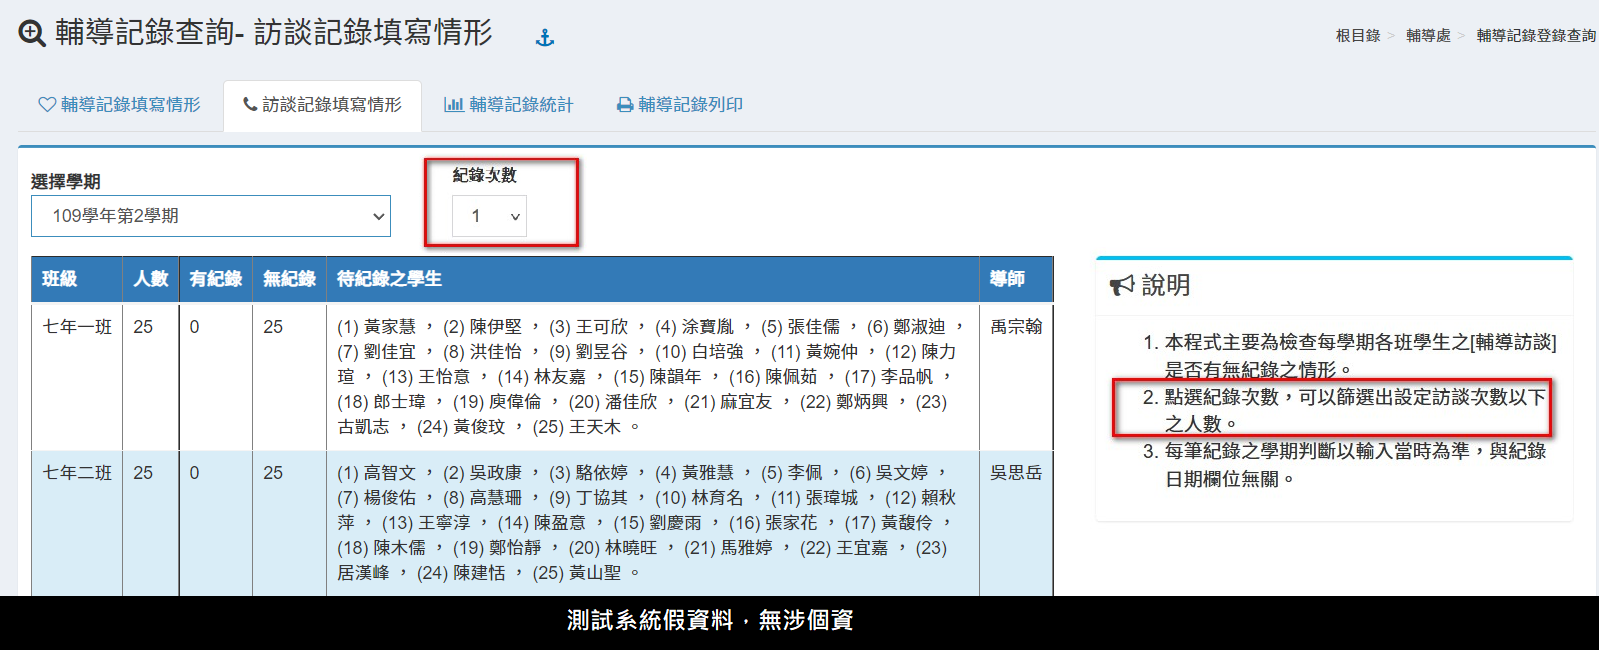
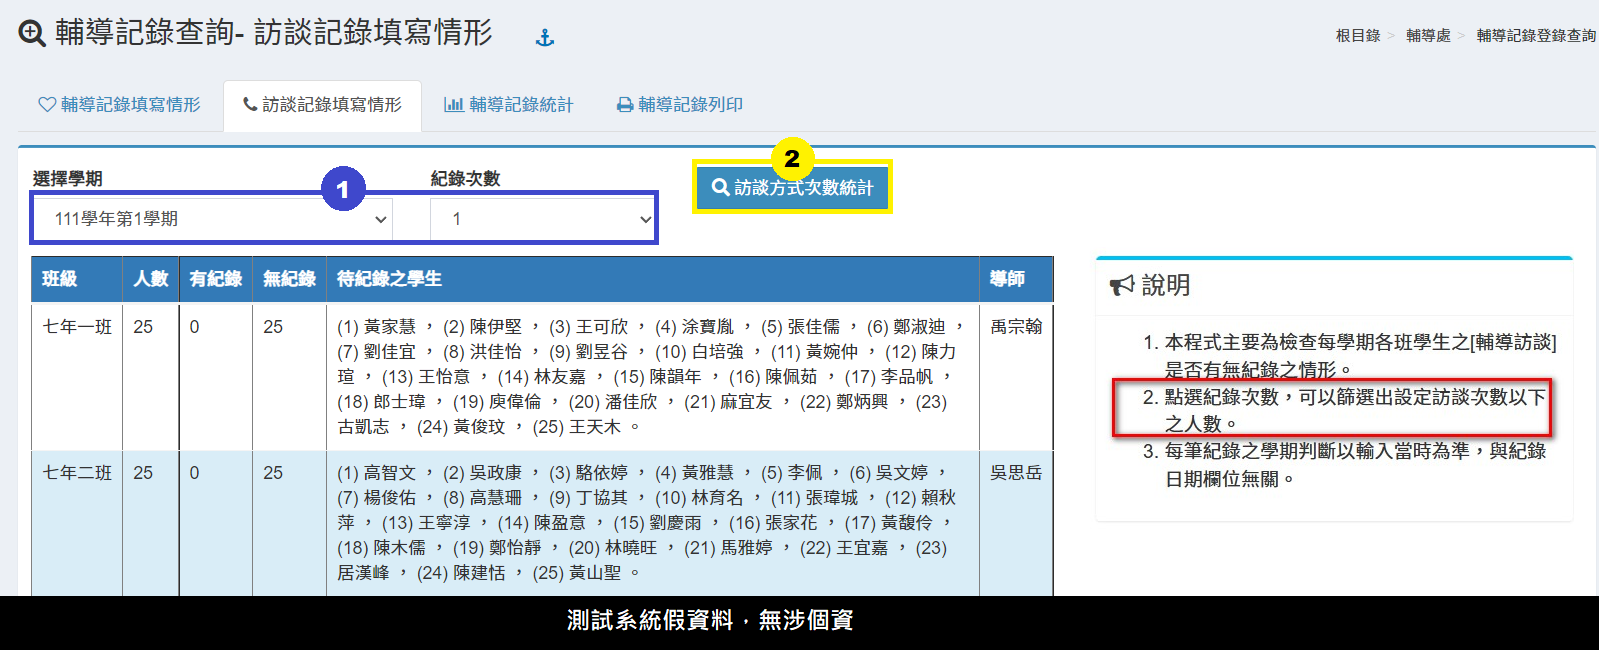
GitBook: [#443] [更新] 訪談方式次數統計功能_1223

Changed region(s): [[0.0, 0.2154, 0.5822, 0.4]]

diff --git a/undefined-1/deng-cha.md b/undefined-1/deng-cha.md
@@ -11,9 +11,19 @@
 
 ## 訪談記錄填寫情形
 
-本功能是統計導師填寫班級訪談紀錄狀況，請點選學期，亦可使用訪談次數篩選出設定訪談次數以下之人選。呈現如下圖。
+本功能是統計導師填寫班級訪談紀錄狀況。
 
 ![](../.gitbook/assets/counseling-query-check-interview.png)
+
+1. 點選「學期」，亦可使用「訪談次數」篩選出設定訪談次數以下之人選。
+2. 點選「訪談方式次數統計」可查看訪談方式統計，如下圖。
+
+<figure><img src="../.gitbook/assets/counseling-query-check-interview2.png" alt=""><figcaption></figcaption></figure>
+
+{% hint style="info" %}
+* 原住民身分、新住民身分的訪談方式統計，需先於「註冊組＞[身分別管理](../jiao/sheng-liao-guan-li.md#shen-fen-guan-li)設定學生身分。
+* 新住民身分為校定身分別，因應各校設置名稱不同，請於「學生資料管理＞[參數設定](../jiao/sheng-liao-guan-li.md#can-shu-she-ding)中調整＂新住民子女在本系統設定名稱＂。
+{% endhint %}
 
 ## 輔導記錄統計
 
